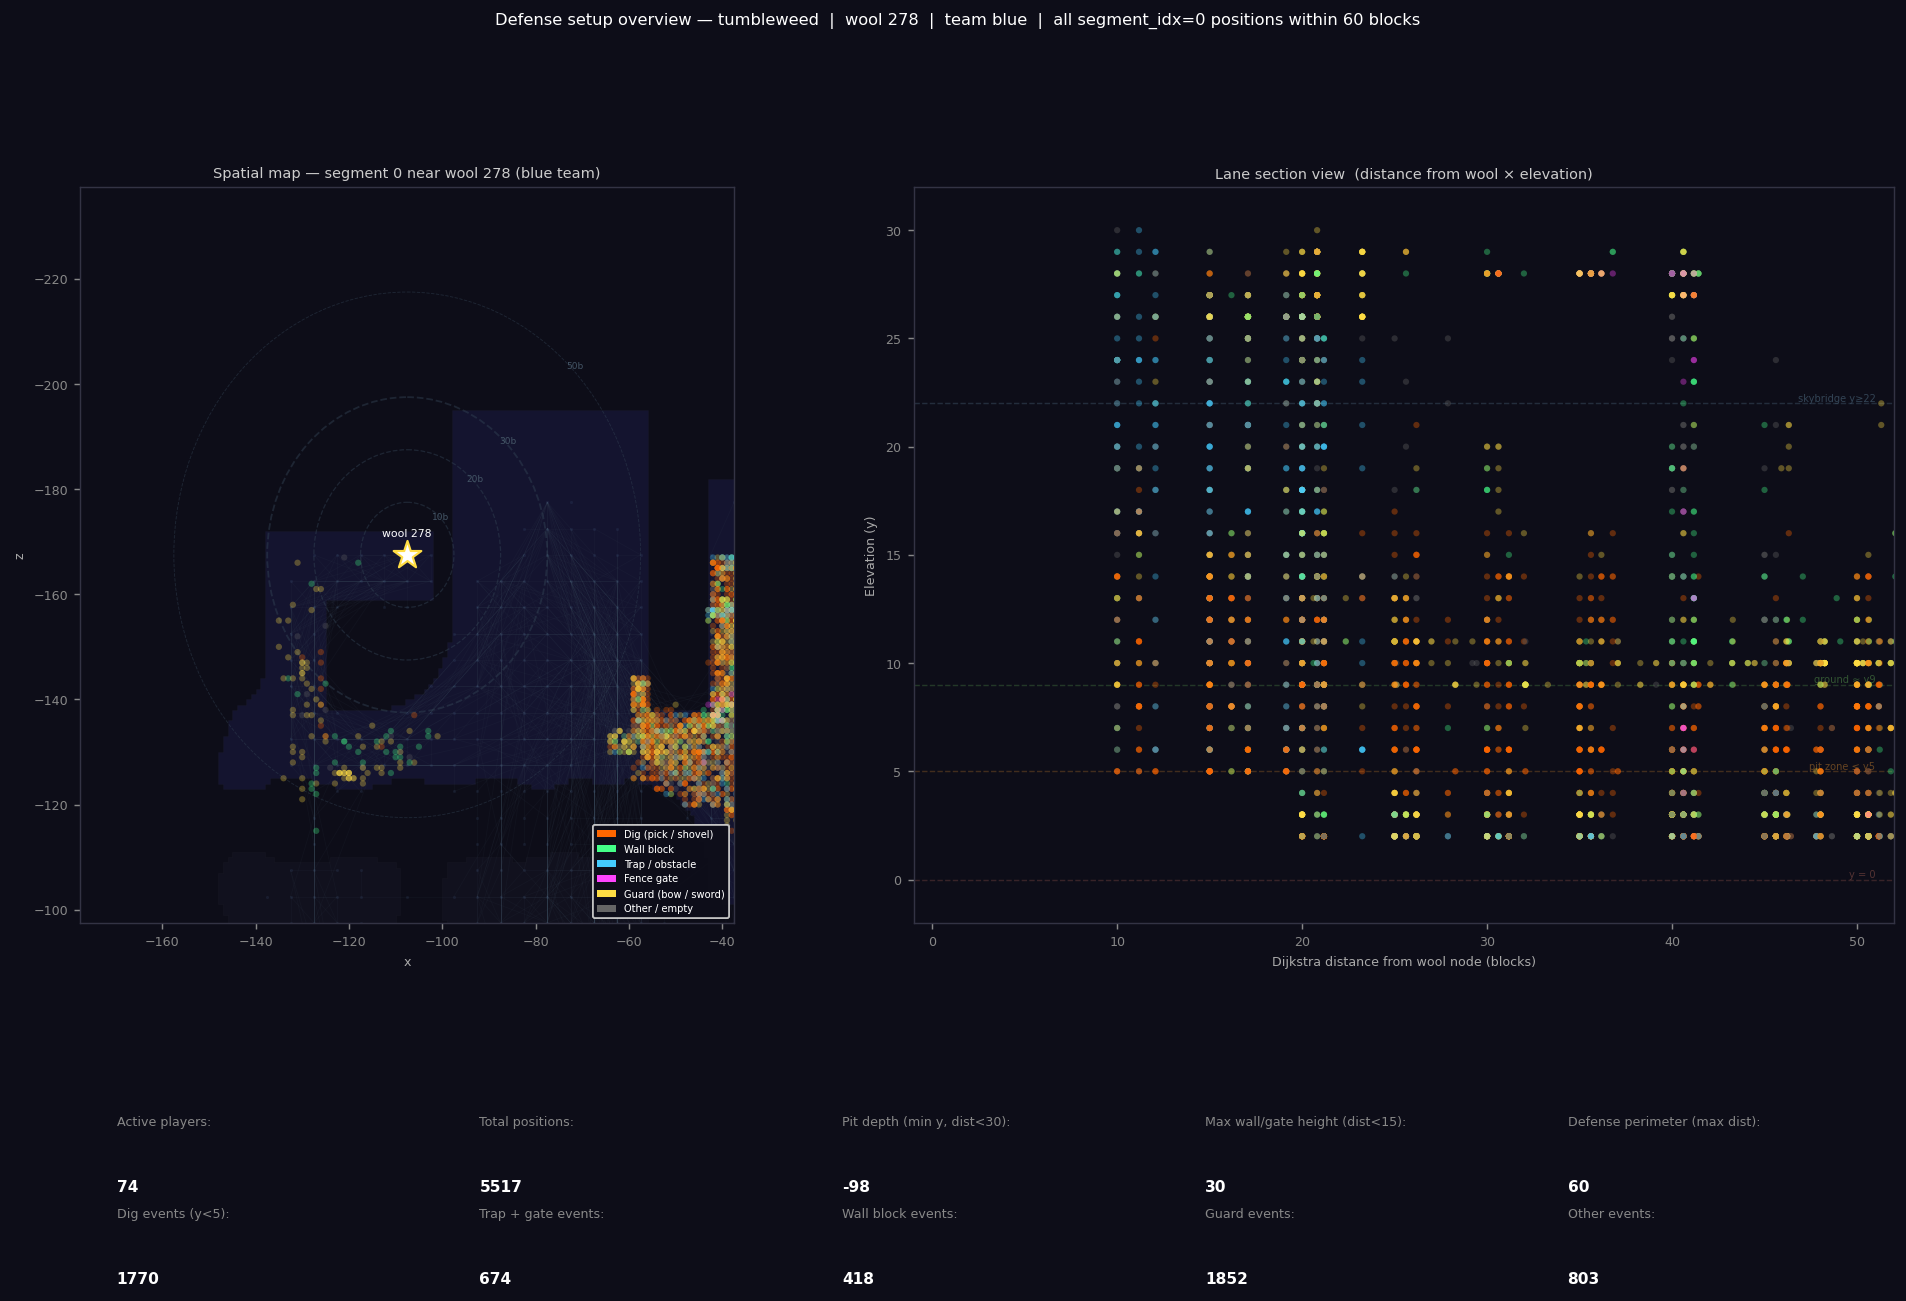
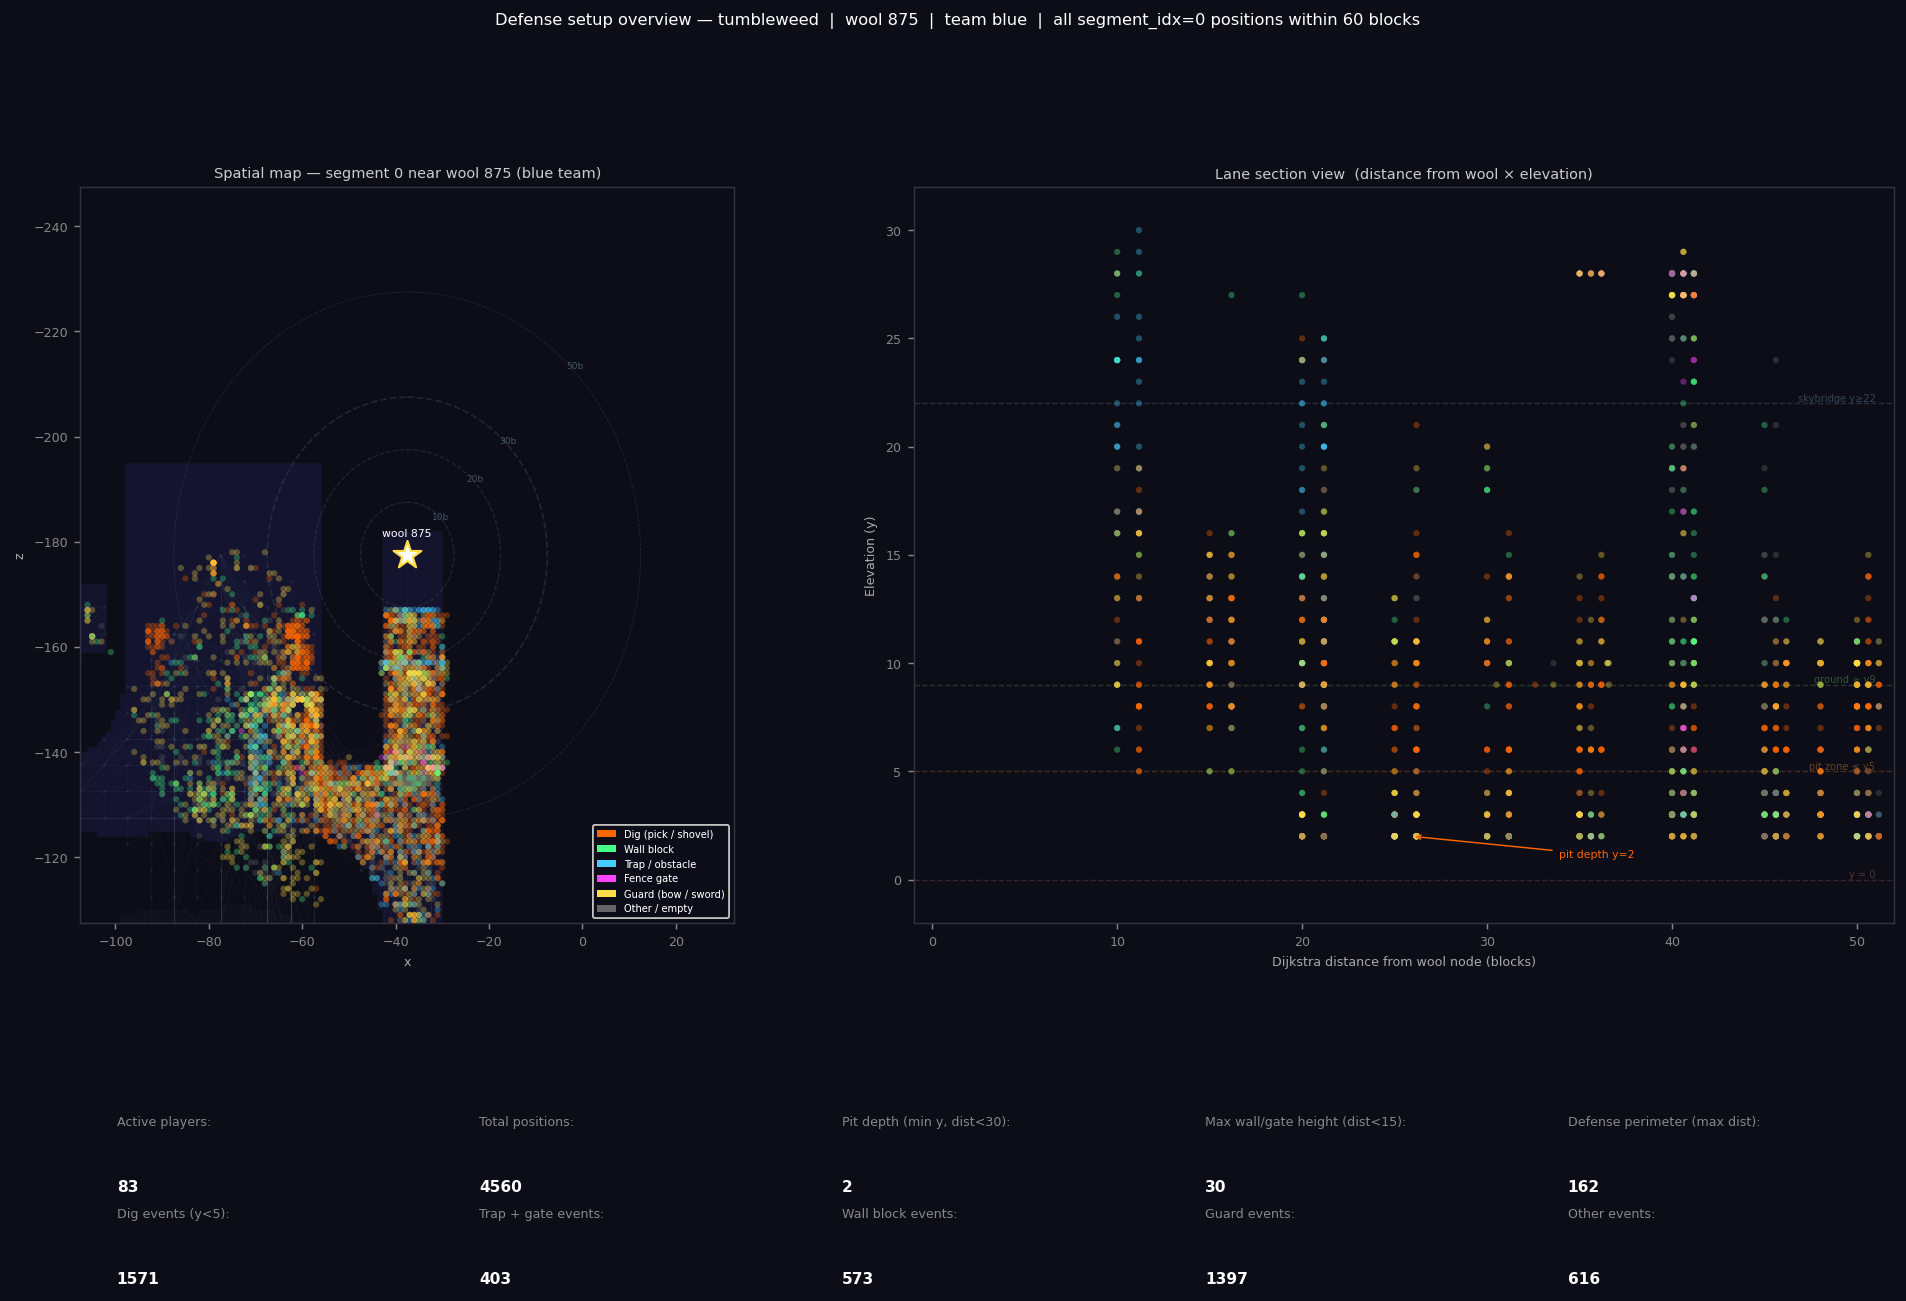
Fix wool selection bug: use spatial proximity per wool in _select_defense_wool
_select_defense_wool was evaluating all wools using the generic wool_dist column
(minimum Dijkstra distance to ANY home wool), so both wools on a team saw the same
values and the first one in iteration order (278 / lime) was returned regardless of
which actually had more pit-digging activity.

Fix: compute Euclidean distance from each position to each specific wool's coordinates
when scoring each candidate wool.  Wool 875 (cyan, [-37.5,-177.5]) now correctly wins
with 1231 y<5 positions vs 278's ~27.

Also compute wool_dist_specific (Dijkstra from selected wool only) after selection and
use it for zone_df filtering and the section-view x-axis, so pit-depth stats and the
lane section cross-section reflect the correct wool.

Regenerated images 22–24 with correct wool 875.

https://claude.ai/code/session_01AoUJrdVjttHtPor9T8LSRo

diff --git a/scripts/run_defense_analysis.py b/scripts/run_defense_analysis.py
@@ -211,15 +211,24 @@ def _select_defense_wool(
 ) -> tuple[int, str]:
     """Pick the wool node + team with the most pit-digging signal.
 
-    Metric: count of positions with y < 5 AND wool_dist < 30.
+    Metric: count of positions with y < 5 AND spatial distance < 40 blocks from
+    each specific wool node.  Uses spatial (Euclidean) proximity so that each
+    wool is evaluated independently — not the pre-computed multi-wool minimum.
     """
     wool_by_team = _wool_nodes_by_team(node_info)
     best_wool, best_team, best_count = -1, "", 0
 
     for team_name, wools in wool_by_team.items():
         team_df = enriched[enriched["team"] == team_name]
+        if team_df.empty:
+            continue
         for w in wools:
-            mask = (team_df["wool_dist"] < 30) & (team_df["y"] < 5)
+            wx, wz = node_info[w]["coords"]
+            spatial_dist = np.sqrt(
+                (team_df["x"].to_numpy(float) - wx) ** 2
+                + (team_df["z"].to_numpy(float) - wz) ** 2
+            )
+            mask = (spatial_dist < 40) & (team_df["y"].to_numpy(float) < 5)
             cnt  = int(mask.sum())
             if cnt > best_count:
                 best_count = cnt
@@ -227,11 +236,18 @@ def _select_defense_wool(
                 best_team  = team_name
 
     if best_wool < 0:
-        # Fallback: pick wool with most near positions at all
+        # Fallback: wool with most spatially nearby positions at any y
         for team_name, wools in wool_by_team.items():
             team_df = enriched[enriched["team"] == team_name]
+            if team_df.empty:
+                continue
             for w in wools:
-                cnt = int((team_df["wool_dist"] < 30).sum())
+                wx, wz = node_info[w]["coords"]
+                spatial_dist = np.sqrt(
+                    (team_df["x"].to_numpy(float) - wx) ** 2
+                    + (team_df["z"].to_numpy(float) - wz) ** 2
+                )
+                cnt = int((spatial_dist < 40).sum())
                 if cnt > best_count:
                     best_count = cnt
                     best_wool  = w
@@ -404,7 +420,32 @@ def run(map_slug: str, output_root: Path) -> None:
     wool_by_team = _wool_nodes_by_team(node_info)
     home_wools = wool_by_team.get(team, [])
 
-    zone_df = enriched[enriched["wool_dist"] <= 60].copy()
+    # Compute Dijkstra distances to the SPECIFIC selected wool for the overview.
+    # The generic wool_dist column holds min-over-all-home-wools and must not be
+    # used for the section-view x-axis or pit-depth stats.
+    w_dists_specific = dijkstra.get(wool_id, {})
+    snapped_arr = enriched["snapped_node"].to_numpy(int)
+    specific_dists = np.array([
+        w_dists_specific.get(int(nid), float("inf")) for nid in snapped_arr
+    ])
+    enriched["wool_dist_specific"] = specific_dists
+
+    # For zone_df: use spatial proximity to the selected wool so positions that
+    # cannot be reached via Dijkstra are still included if they are close.
+    spatial_all = np.sqrt(
+        (enriched["x"].to_numpy(float) - wx) ** 2
+        + (enriched["z"].to_numpy(float) - wz) ** 2
+    )
+    zone_mask = (spatial_all <= 70) | (specific_dists <= 60)
+    zone_df = enriched[zone_mask].copy()
+    # Overwrite wool_dist with specific-wool distance for section view x-axis and stats.
+    # For unreachable positions use spatial distance as a fallback approximation.
+    zone_specific = zone_df["wool_dist_specific"].to_numpy(float)
+    zone_spatial  = spatial_all[zone_mask]
+    zone_df["wool_dist"] = np.where(
+        np.isfinite(zone_specific), zone_specific, zone_spatial
+    )
+
     print(f"Target wool: node {wool_id}  team={team}  coords=({wx}, {wz})")
     print(f"  {zone_df['player_id'].nunique()} players active within 60 blocks")
     print(f"  {int((zone_df['y'] < 5).sum())} positions with y<5 (pit digging)")
